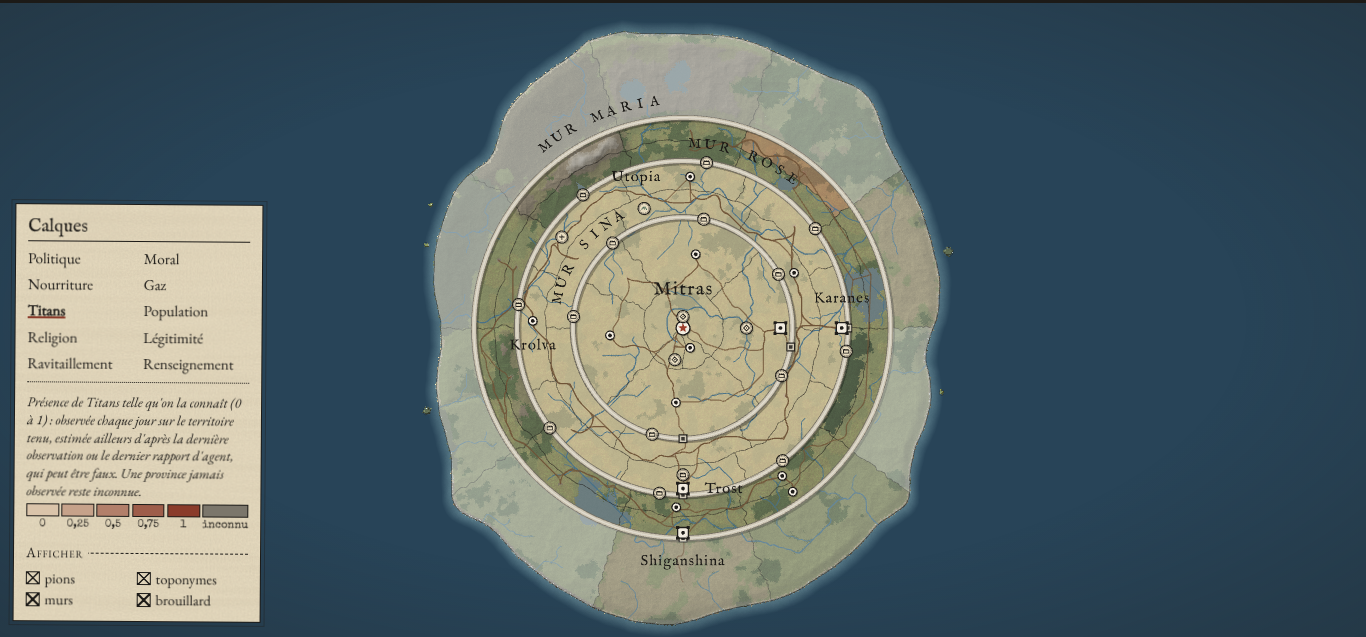
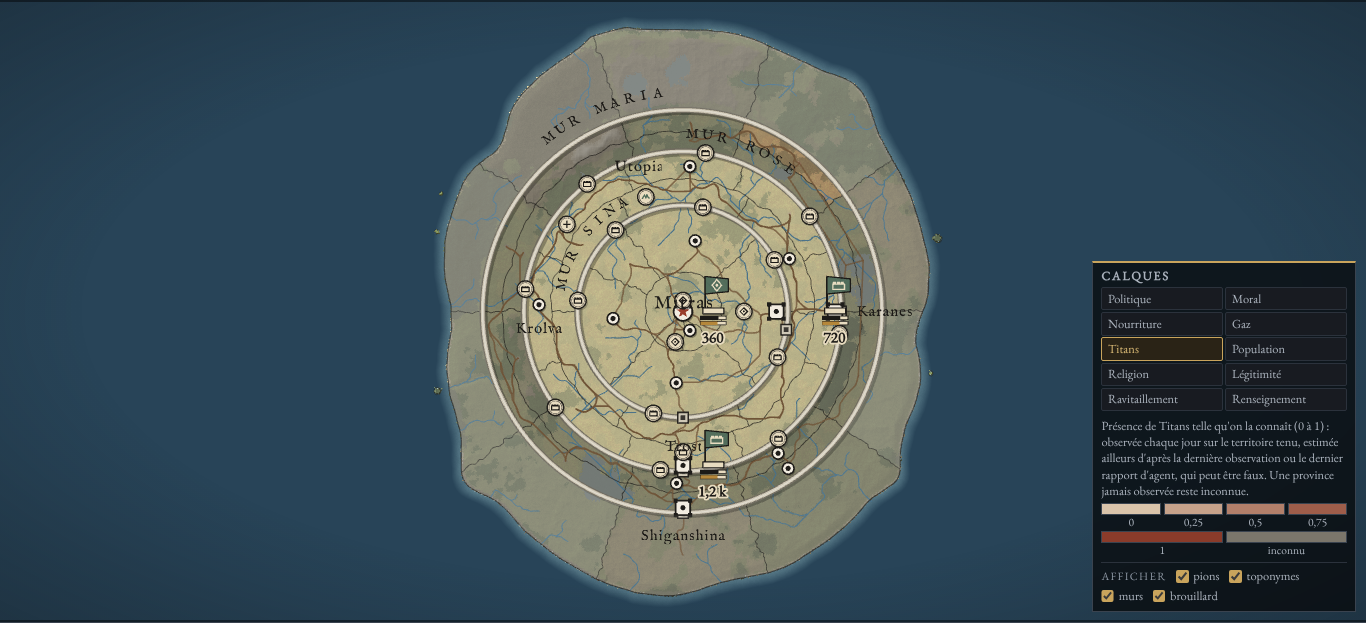
Dette n° 14 : sous un calque, le brouillard ne fausse plus les teintes de la légende
Le voile du brouillard, posé au-dessus de l'aplat, faisait pâlir la brique « aux
Titans » de Maria vers le gris « perdue ». Sous un calque, le voile est réduit à
35 % ; l'aplat passe à 58 % (relief plus lisible) ; le gris « inconnu » couvre à
72 %. Test des écarts de couleur (Lab) ; captures map-1366-* régénérées.

npm run verify : 121 fichiers, 775 tests, EXIT=0 (dette14-verify.log).

Claude-Session: https://claude.ai/code/session_01QkVHPRrYAvmotTxhToJVAL

diff --git a/tests/ui/overlays.test.ts b/tests/ui/overlays.test.ts
@@ -3,6 +3,8 @@ import { loadWorld } from "../../src/data/worldNode";
 import { createInitialState } from "../../src/sim/core/state";
 import { provinceProduction } from "../../src/sim/strategic/economy";
 import { computeOverlay, isAvailable, OVERLAY_IDS } from "../../src/ui/overlays";
+import { BRICK, mix, OVERLAY_ALPHA, OVERLAY_VEIL, PAPER_DARK, STONE, VEIL } from "../../src/render/palette";
+import { deltaE76, rgbToLab } from "../../src/render/tactical3d/styles";
 
 const world = loadWorld();
 const state = createInitialState(42, world);
@@ -48,6 +50,24 @@ describe("overlays (AC1-13, F-STR-02)", () => {
     }
     const top = computeOverlay("nourriture", w850, s850, (n) => String(n), label)?.legend[4]?.label ?? "";
     expect(Number(top) / 10 ** Math.floor(Math.log10(Number(top)))).toSatisfy((m: number) => [1, 2, 2.5, 5, 10].includes(m));
+  });
+});
+
+describe("dette n° 14 : teintes du calque politique sous le brouillard", () => {
+  const lab = (c: number): [number, number, number] => rgbToLab((c >> 16) & 255, (c >> 8) & 255, c & 255);
+  // Aplat posé sur le papier de la carte, puis voile d'une province inexplorée (opacité multipliée par celle de la couche).
+  const shown = (tint: number, veil: number): number => mix(mix(PAPER_DARK, tint, OVERLAY_ALPHA), VEIL.color, VEIL.inexplore * veil);
+  it("« aux Titans » sous le brouillard reste plus proche de « aux Titans » que de « perdue »", () => {
+    const fogged = (veil: number): { titans: number; lost: number } => ({
+      titans: deltaE76(lab(shown(BRICK, veil)), lab(shown(BRICK, 0))),
+      lost: deltaE76(lab(shown(BRICK, veil)), lab(shown(STONE, 0))),
+    });
+    // Avant (voile entier) : la brique voilée tirait vers le gris « perdue ».
+    expect(fogged(1).titans).toBeGreaterThan(fogged(1).lost);
+    const now = fogged(OVERLAY_VEIL);
+    console.log(`brouillard sous calque : ΔE aux Titans ${now.titans.toFixed(1)}, ΔE perdue ${now.lost.toFixed(1)}`);
+    expect(now.titans).toBeLessThan(10);
+    expect(now.lost).toBeGreaterThan(2 * now.titans);
   });
 });
 

diff --git a/src/render/strategicMap.ts b/src/render/strategicMap.ts
@@ -9,7 +9,7 @@ import type { ArmyBanner, ProvinceShape } from "./atlasLayers";
 import { flat } from "./ink";
 import { LabelLayer, LOD_ORDER } from "./labels";
 import type { LabelSpec, Lod } from "./labels";
-import { BRICK, UNKNOWN } from "./palette";
+import { BRICK, OVERLAY_ALPHA, OVERLAY_UNKNOWN_ALPHA, OVERLAY_VEIL, UNKNOWN } from "./palette";
 import type { TerrainImage } from "./terrainRaster";
 import { drawCoast, drawOpenSea, drawRivers, drawRoads, drawTowns, drawVeil, drawWalls, MAP_INK, TERRAIN_TEXTURE_FINE, terrainSprite, terrainTexture, wallRadiusAt } from "./terrainLayers";
 
@@ -367,12 +367,15 @@ export class StrategicMap {
 
   private drawWashLayer(): void {
     this.gWash.clear();
+    // Dette n° 14 : sous un calque, le brouillard est atténué pour que les teintes restent celles de la légende.
+    this.gFog.alpha = this.overlay ? OVERLAY_VEIL : 1;
     for (const p of this.provinces) {
       if (p.kind === "segment") continue;
       // Calque actif : aplat transparent par province, le relief reste lisible ; sans valeur, gris « inconnu » de la légende.
       if (!this.overlay) continue;
       const value = this.overlay.get(p.id);
-      this.gWash.poly(flat(p.polygon)).fill({ color: value ?? UNKNOWN, alpha: value === undefined ? 0.45 : 0.64 });
+      const unknown = value === undefined || value === UNKNOWN;
+      this.gWash.poly(flat(p.polygon)).fill({ color: value ?? UNKNOWN, alpha: unknown ? OVERLAY_UNKNOWN_ALPHA : OVERLAY_ALPHA });
     }
   }
 

diff --git a/src/render/palette.ts b/src/render/palette.ts
@@ -12,6 +12,17 @@ export const SEA = 0xc9c6b0;
 export const PLUM = 0x5b4a6b;
 export const INK_SOFT = 0x3a352d;
 
+/** Voile du brouillard sur les provinces mal connues (F-STR-16) : teinte et opacité par niveau de connaissance. */
+export const VEIL = { color: 0xdde3e6, inexplore: 0.42, partielle: 0.2 } as const;
+/**
+ * Calque actif (dette n° 14) : aplat un peu plus léger pour laisser lire le relief, et voile du brouillard atténué pour que
+ * la teinte d'une province mal connue reste celle de la légende (« aux Titans » ne pâlit plus en rose voisin de « perdue »).
+ * Sans valeur, le gris « inconnu » est plus couvrant : le vert des champs ne doit pas se lire comme une valeur.
+ */
+export const OVERLAY_ALPHA = 0.58;
+export const OVERLAY_UNKNOWN_ALPHA = 0.72;
+export const OVERLAY_VEIL = 0.35;
+
 /** Teinte d'aquarelle par région (lavis de base, avant overlays). */
 export const REGION_WASH: Record<string, number> = {
   outre_murs: 0xa49a7a,

diff --git a/src/render/terrainLayers.ts b/src/render/terrainLayers.ts
@@ -3,6 +3,7 @@ import type { Graphics } from "pixi.js";
 import type { TerrainData } from "../data/terrain";
 import type { Point } from "../sim/strategic/geometry";
 import { flat } from "./ink";
+import { VEIL } from "./palette";
 import { renderTerrain } from "./terrainRaster";
 import type { TerrainImage } from "./terrainRaster";
 
@@ -194,7 +195,7 @@ export function drawTowns(g: Graphics, t: TerrainData, px: number, minSize: numb
 
 /** Brouillard de guerre (E-UX-3) : voile léger, sans mention ; l'inconnu est voilé et perd son détail. */
 export function drawVeil(g: Graphics, polygon: readonly Point[], level: "inexplore" | "partielle"): void {
-  g.poly(flat(polygon)).fill({ color: 0xdde3e6, alpha: level === "inexplore" ? 0.42 : 0.2 });
+  g.poly(flat(polygon)).fill({ color: VEIL.color, alpha: VEIL[level] });
 }
 
 /** Rayon de la ligne médiane d'un mur au relèvement donné (étiquettes courbes). */

diff --git a/docs/reports/dette.md b/docs/reports/dette.md
@@ -17,7 +17,7 @@ Format : **quoi** — où — gravité (faible / moyenne / forte). Tag `LC-repor
 | 11 | Champs, cours et parcs posés 2 à 6 cm au-dessus de la prairie : rayures (scintillement de profondeur) vus de loin (village des Saules à 1,5 km). Piste : décalage de polygone (`polygonOffset`) sur les couches du sol | `places/ground3d.ts` | faible | R1e.7 ; **corrigé** (décalage de polygone par couche ; `docs/places/village-des-saules/vue-ensemble.png` sans rayures) |
 | 12 | Vues de lieux à revoir : Grand Marché et marché aux Draps de Quinta presque identiques (même halle) ; « port » sans bateau ; places vides (pas d'étals) ; figures d'échelle petites hors Titan | `src/tools/places/auteur/`, `places/scaleFigures.ts` | faible | R1e.7 |
 | 13 | Carte, calques Titans et Nourriture : des provinces sans aplat (anneau Rose–Maria vert naturel au calque Titans, Sina et Rose–Maria au calque Nourriture) ne correspondent à aucune case de la légende ; légende Nourriture avec formule de calcul et seuils non arrondis | `src/ui/overlays.ts` | moyenne | MAP (revue D-106) ; **corrigé** (toute province a une teinte de la légende : « hors du territoire tenu » pour Nourriture et Gaz, « inconnu » pour Titans ; seuils ronds 1, 2, 2,5 ou 5 × 10ⁿ ; la formule reste comme « pourquoi » du calque ; `tests/ui/overlays.test.ts`, `smoke:map`, `p1-calque-nourriture.png`) |
-| 14 | Carte, calque politique : le rose voilé des provinces hors Maria se confond avec « aux Titans » ; relief effacé sous l'aplat | `src/render/strategicMap.ts` | faible | MAP (revue D-106) |
+| 14 | Carte, calque politique : le rose voilé des provinces hors Maria se confond avec « aux Titans » ; relief effacé sous l'aplat | `src/render/strategicMap.ts` | faible | MAP (revue D-106) ; **corrigé** (sous un calque, voile du brouillard à 35 % : « aux Titans » voilé reste à ΔE 8 de sa case contre 19 de « perdue » ; aplat à 58 % au lieu de 64 % ; gris « inconnu » couvrant à 72 % ; `tests/ui/overlays.test.ts`, `map-1366-calque-*.png`) |
 | 15 | Carte : quelques noms coupés au bord ou serrés (« Fort avancé de Maria » / « Forêt des Arbres Géants », « Hameaux de l'Ouest de Maria » sur le mur) ; relief peu marqué hors du massif nord-ouest ; murs en bande plate à faible ombre ; île presque ronde | `src/render/terrainLayers.ts`, `src/tools/terrain` | faible | MAP (revue D-106) |
 | 16 | Phase UI, smoke:r0 / tactique / p6 : le canevas de bataille est recouvert (zone de jeu 7,3 % à 1366, 33,5 % en 4K) ; clic et molette sans effet, bouton du bilan jamais cliquable. Élément non identifié | `src/ui/gameScreen.ts`, `src/ui/styles/screen.css` (grille `.ecran`) | forte | UI.7 (corrigé en UI.7, dc09c21 ; smoke relancés OK) |
 | 17 | Phase UI, smoke:p8 : `kbd.touche` en police système (54 lignes) ; « textures sur 1 niveau » (dossier de province, options) ; contrôle audio faussé par le contrôle du fil (temps avancé) | `src/ui/styles/base.css`, `src/tools/smoke-p8.ts` | moyenne | UI.7 (corrigé en UI.7, dc09c21 ; smoke relancés OK) |

diff --git a/docs/reports/dettes-suite.md b/docs/reports/dettes-suite.md
@@ -14,3 +14,21 @@ Les corrections de la 3D (n° 74, 75, 55) sont décrites dans `CONFORMITE-3D.md`
   2 500 puis « hors du territoire tenu ».
   - Défauts : intérieur de Sina presque de la teinte « 0 » (faible production, peu lisible) ; gris « hors du territoire »
     proche du voile de brouillard ; seconde notification coupée en haut à droite ; « Mitras » chevauché par les pions.
+
+## Dette n° 14 : calque politique sous le brouillard
+- Le voile du brouillard passait au-dessus de l'aplat du calque : la brique « aux Titans » de Maria pâlissait en rose,
+  plus proche du gris « perdue » (ΔE 10) que de sa propre case (ΔE 23). Sous un calque, le voile est réduit à 35 % ;
+  l'aplat passe de 64 à 58 % (relief plus lisible) ; le gris « inconnu » couvre à 72 % (le vert des champs ne se lit plus
+  comme une valeur).
+- `npm run verify` (`dette14-verify.log`) : « Tests  775 passed (775) », `EXIT=0` ; `captures:map -- --rapide` : « Aucune erreur
+  console. », `EXIT=0` (`dette14-captures-map.log`).
+- `tests/ui/overlays.test.ts` (ΔE en Lab) : voile entier, la brique voilée tire vers « perdue » (état d'avant, vérifié) ;
+  voile réduit, elle reste à moins de 10 de sa case et à plus du double de « perdue ».
+- **`map-1366-calque-politique.png`** : île entière ; Sina et Rose en vert « tenue », l'anneau de Maria et l'outre-murs
+  en brique « aux Titans », le relief (forêts, champs) visible sous l'aplat. Légende tenue / aux Titans / perdue.
+  - Défauts : Maria et l'outre-murs ont désormais la même teinte (le brouillard ne se lit presque plus sous un calque) ;
+    brique de la carte plus orangée que la case de la légende (mélange avec le papier) ; « Mitras » et « Trost » chevauchés
+    par les pions ; bouton « Religion » en surbrillance (survol de la souris laissé par la capture).
+- **`map-1366-calque-titans.png`** : Rose et Sina en papier (0 Titan observé), Maria et l'outre-murs en gris « inconnu ».
+  - Défauts : gris encore teinté de vert sur les forêts ; aucune province entre 0,25 et 1 en 850 (échelle peu utile à cette
+    date) ; texte d'aide long (cinq lignes) au-dessus de la légende.

diff --git a/docs/PROGRESS.md b/docs/PROGRESS.md
@@ -3,8 +3,8 @@
 | Champ | Valeur |
 |---|---|
 | Phase | **PACK terminée** (application Windows Electron : `npm run package:win`, `smoke:pack` ; D-164). Feuille de route V2 achevée (N1 à N3). Suite : dette n° 72 (tenues des soldats, demande de l'utilisateur) et contrôle de conformité de la 3D, puis dettes. |
-| Tâche | Dettes n° 74, 75, 55 (décor), 56, 57, 58, 11, 38, 13 corrigées ; 31 et 45 en partie (D-166 à D-169) ; dettes suivantes |
-| Dernier `npm run verify` | 2026-10-11 : code 0 ; 121 fichiers, 774 tests (`docs/reports/dette13-verify.log`) |
+| Tâche | Dettes n° 74, 75, 55 (décor), 56, 57, 58, 11, 38, 13, 14 corrigées ; 31 et 45 en partie (D-166 à D-169) ; dettes suivantes |
+| Dernier `npm run verify` | 2026-10-11 : code 0 ; 121 fichiers, 775 tests (`docs/reports/dette14-verify.log`) |
 | Prochaine étape | PROCHAINE ACTION EXACTE : dettes restantes par gravité (hors `src/sim`, figé depuis R2), puis résumé final des 3 jours le 2026-10-12 vers 19:35 UTC, sur `claude/intelligent-feynman-8ekib4` (mandat autonome jusqu'au 2026-10-12 19:33 UTC, D-148). À faire par Gabriel : `npm run package:win` sur Windows (`docs/LANCER_SUR_WINDOWS.md`) ; mesures GPU (dettes n° 49, 64, 71, 73) |
 
 ## Mandat autonome de trois jours (2026-10-09 → 2026-10-12, D-148)
